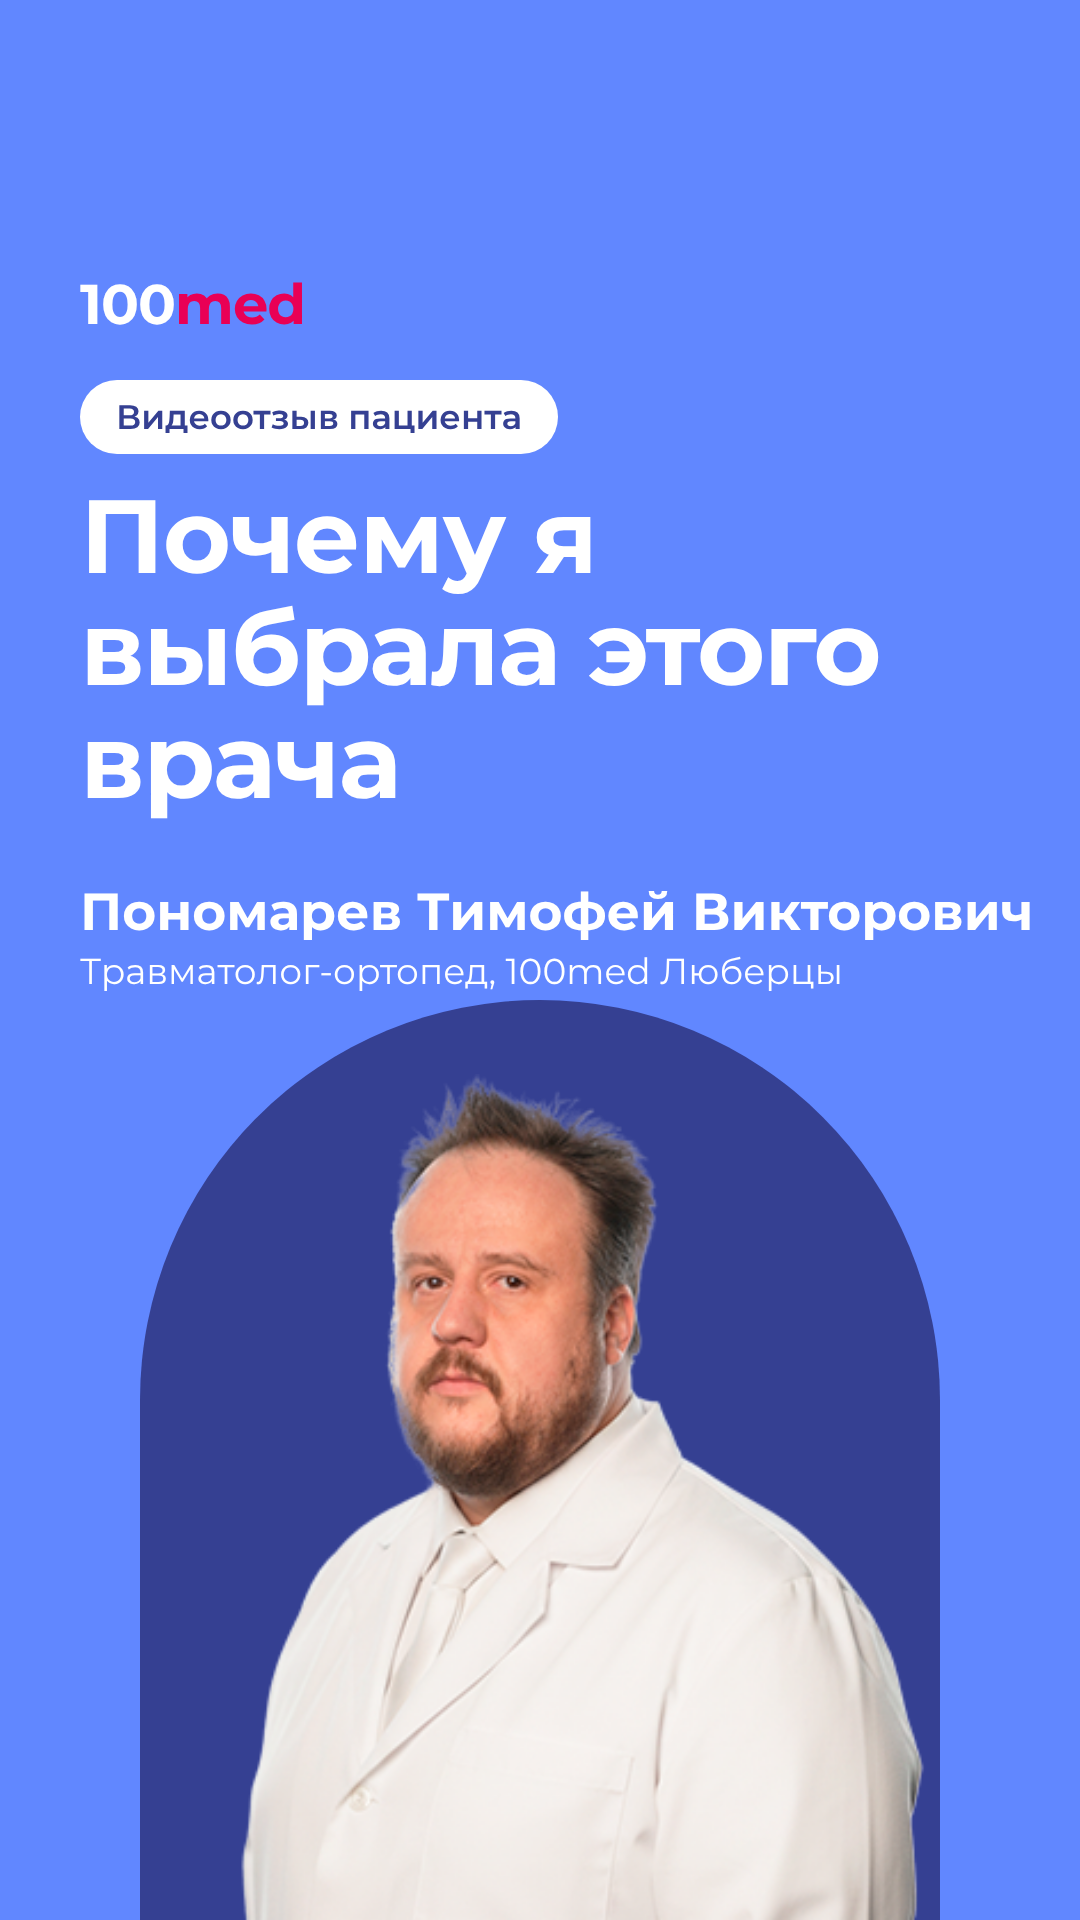
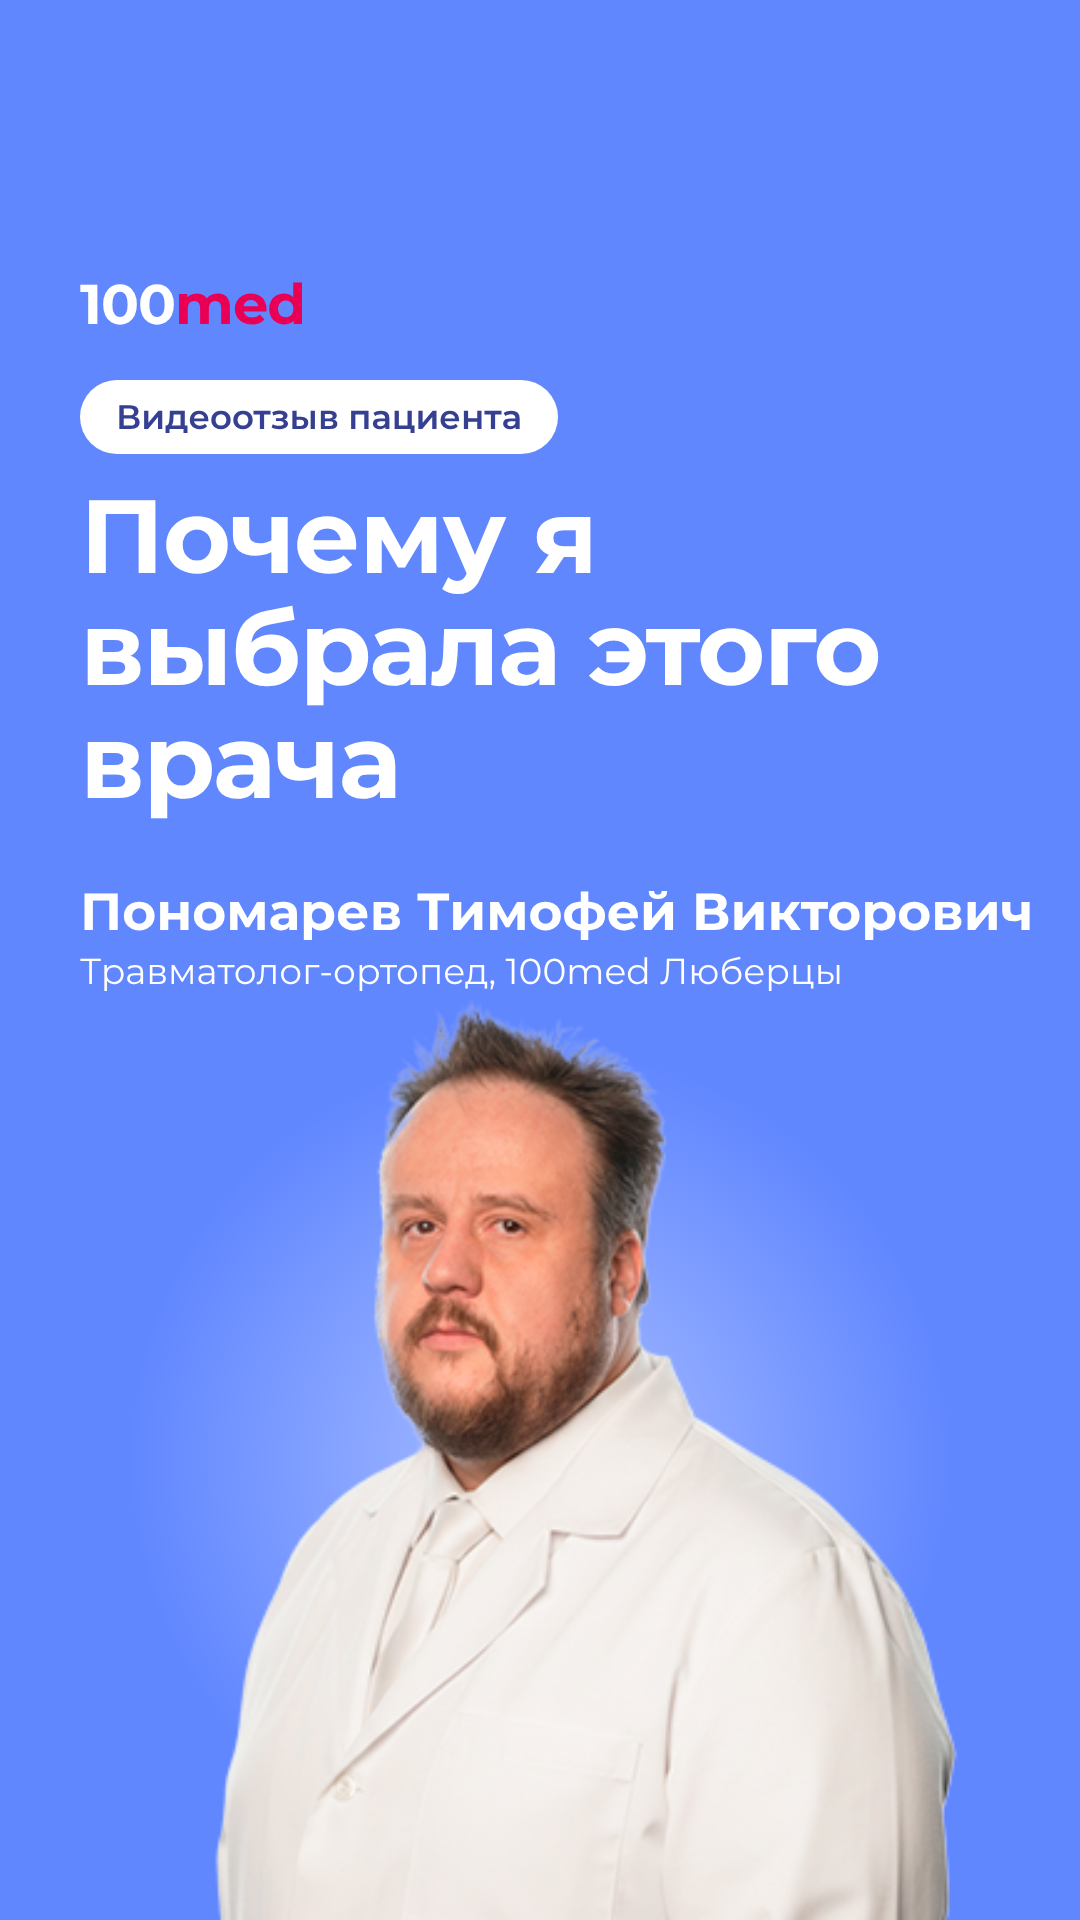
Обложки видеоотзыва: врач без арки — фото на фоне, карточка с выходом за рамку, наклонная пилюля
Claude-Session: https://claude.ai/code/session_01PviFTs3NBUHuRE8r3MhosN

diff --git a/design/rutube/covers.html b/design/rutube/covers.html
@@ -8,10 +8,7 @@ body{font-family:'Proxima Nova','Montserrat',sans-serif;background:#fff}
 .logo{position:absolute;left:64px;top:52px;font-weight:700;font-size:40px;letter-spacing:-1px}
 .logo b{color:var(--rose)}
 .pill{display:inline-block;padding:12px 28px;border-radius:999px;font-weight:600;font-size:26px}
-.photo{position:absolute;right:0;bottom:0;width:520px;height:640px;border-radius:260px 260px 0 0;
- display:flex;align-items:center;justify-content:center;text-align:center;font-weight:600;font-size:24px;line-height:1.4}
-.photo svg{position:absolute;bottom:0;left:50%;transform:translateX(-50%);opacity:.35}
-.photo img{position:absolute;bottom:0;left:50%;transform:translateX(-50%);height:92%}
+h1,.name,.pill,.logo,.play,.playtxt{z-index:3}
 h1{font-weight:700;line-height:1.08;letter-spacing:-1.5px}
 .name{position:absolute;left:64px;bottom:64px}
 .name .fio{font-weight:700;font-size:34px;white-space:nowrap}
@@ -20,20 +17,17 @@ h1{font-weight:700;line-height:1.08;letter-spacing:-1.5px}
 /* V1 Indy */
 .v1{background:var(--indy);color:#fff}
 .v1 .logo{color:#fff}
-.v1 .photo{background:var(--blue);color:var(--blue);right:40px}
 .v1 h1{position:absolute;left:64px;top:230px;width:640px;font-size:84px}
 .v1 .pill{position:absolute;left:64px;top:150px;background:#fff;color:var(--blue)}
 /* V2 light */
 .v2{background:var(--g2);color:var(--dark)}
 .v2 .logo{color:var(--dark)}
-.v2 .photo{background:var(--indy);color:#fff;right:40px}
 .v2 .pill{position:absolute;left:64px;top:150px;background:var(--rose);color:#fff}
 .v2 h1{position:absolute;left:64px;top:230px;width:640px;font-size:80px;color:var(--dark)}
 .v2 .name .spec{color:var(--blue)}
 /* V3 dark */
 .v3{background:var(--dark);color:#fff}
 .v3 .logo{color:#fff}
-.v3 .photo{background:var(--indy);color:#fff;right:40px}
 .v3 .quote{position:absolute;left:56px;top:120px;font-size:220px;font-weight:700;color:var(--indy);line-height:1}
 .v3 h1{position:absolute;left:64px;top:240px;width:660px;font-size:78px}
 .v3 .play{position:absolute;left:64px;top:450px;width:72px;height:72px;background:var(--rose)}
@@ -46,14 +40,35 @@ h1{font-weight:700;line-height:1.08;letter-spacing:-1.5px}
 .vert h1{left:80px !important;top:480px !important;width:920px !important;font-size:104px !important}
 .vert .name{left:80px;top:880px;bottom:auto}
 .vert .name .fio{font-size:52px}.vert .name .spec{font-size:36px}
-.vert .photo{right:auto !important;left:140px;width:800px;height:920px;border-radius:400px 400px 0 0;font-size:34px}
-.vert .photo svg{width:620px;height:800px}
 .vert .quote{left:70px !important;top:370px !important;font-size:240px !important}
 .vert.v3 h1{top:610px !important}
 .vert .play{left:80px !important;top:900px !important;width:88px;height:88px}
 .vert .playtxt{left:190px !important;top:922px !important;font-size:36px}
 .vert.v3 .name{top:1030px}
-.vert.v3 .photo{height:740px}
+/* ===== Photo treatments (no arch) ===== */
+.photo{position:absolute}
+.photo img{position:absolute;bottom:0;left:50%;transform:translateX(-50%);z-index:2}
+.deco{position:absolute;z-index:1}
+/* v1: freestanding cut-out with soft glow */
+.v1 .photo{right:10px;bottom:0;width:600px;height:690px}
+.v1 .photo img{height:100%}
+.v1 .deco{inset:0;background:radial-gradient(circle at 50% 50%,rgba(255,255,255,.45),rgba(255,255,255,0) 62%)}
+/* v2: card with head breaking out of the frame */
+.v2 .photo{right:56px;bottom:56px;width:500px;height:430px}
+.v2 .deco{inset:0;background:var(--indy);border-radius:40px}
+.v2 .photo img{height:600px;clip-path:inset(-60% 41px 0 41px)}
+/* v3: tilted pill behind the doctor */
+.v3 .photo{right:0;bottom:0;width:600px;height:690px}
+.v3 .photo img{height:100%}
+.v3 .deco{left:-40px;top:250px;width:680px;height:290px;border-radius:999px;background:var(--indy);transform:rotate(-14deg)}
+/* vertical */
+.vert.v1 .photo{left:60px;width:960px;height:920px}
+.vert.v1 .photo img{height:100%}
+.vert.v2 .photo{left:100px;right:auto;bottom:70px;width:880px;height:700px}
+.vert.v2 .photo img{height:850px;clip-path:none}
+.vert.v3 .photo{left:60px;width:960px;height:800px}
+.vert.v3 .photo img{height:100%}
+.vert.v3 .deco{left:-60px;top:250px;width:1080px;height:400px}
 </style></head><body>
 
 <div class="cover v1" id="v1">
@@ -61,7 +76,7 @@ h1{font-weight:700;line-height:1.08;letter-spacing:-1.5px}
  <div class="pill">Видеоотзыв пациента</div>
  <h1>Почему я выбрала этого врача</h1>
  <div class="name"><div class="fio">Пономарев Тимофей Викторович</div><div class="spec">Травматолог-ортопед, 100med Люберцы</div></div>
- <div class="photo"><img src="ponomarev.png" alt="Пономарев Тимофей Викторович"></div>
+ <div class="photo"><div class="deco"></div><img src="ponomarev.png" alt="Пономарев Тимофей Викторович"></div>
 </div>
 
 <div class="cover v2" id="v2">
@@ -69,7 +84,7 @@ h1{font-weight:700;line-height:1.08;letter-spacing:-1.5px}
  <div class="pill">Отзыв пациента</div>
  <h1>Как прошёл мой приём</h1>
  <div class="name"><div class="fio">Пономарев Тимофей Викторович</div><div class="spec">Травматолог-ортопед, 100med Люберцы</div></div>
- <div class="photo"><img src="ponomarev.png" alt="Пономарев Тимофей Викторович"></div>
+ <div class="photo"><div class="deco"></div><img src="ponomarev.png" alt="Пономарев Тимофей Викторович"></div>
 </div>
 
 <div class="cover v3" id="v3">
@@ -79,7 +94,7 @@ h1{font-weight:700;line-height:1.08;letter-spacing:-1.5px}
  <div class="play"><svg width="30" height="34" viewBox="0 0 30 34"><path d="M2 2l26 15L2 32z" fill="#fff"/></svg></div>
  <div class="playtxt">Видеоотзыв пациента</div>
  <div class="name"><div class="fio">Пономарев Тимофей Викторович</div><div class="spec" style="color:#d8dfe8">Травматолог-ортопед, 100med Люберцы</div></div>
- <div class="photo"><img src="ponomarev.png" alt="Пономарев Тимофей Викторович"></div>
+ <div class="photo"><div class="deco"></div><img src="ponomarev.png" alt="Пономарев Тимофей Викторович"></div>
 </div>
 
 
@@ -88,7 +103,7 @@ h1{font-weight:700;line-height:1.08;letter-spacing:-1.5px}
  <div class="pill">Видеоотзыв пациента</div>
  <h1>Почему я выбрала этого врача</h1>
  <div class="name"><div class="fio">Пономарев Тимофей Викторович</div><div class="spec">Травматолог-ортопед, 100med Люберцы</div></div>
- <div class="photo"><img src="ponomarev.png" alt="Пономарев Тимофей Викторович"></div>
+ <div class="photo"><div class="deco"></div><img src="ponomarev.png" alt="Пономарев Тимофей Викторович"></div>
 </div>
 
 <div class="cover vert v2" id="s2">
@@ -96,7 +111,7 @@ h1{font-weight:700;line-height:1.08;letter-spacing:-1.5px}
  <div class="pill">Отзыв пациента</div>
  <h1>Как прошёл мой приём</h1>
  <div class="name"><div class="fio">Пономарев Тимофей Викторович</div><div class="spec">Травматолог-ортопед, 100med Люберцы</div></div>
- <div class="photo"><img src="ponomarev.png" alt="Пономарев Тимофей Викторович"></div>
+ <div class="photo"><div class="deco"></div><img src="ponomarev.png" alt="Пономарев Тимофей Викторович"></div>
 </div>
 
 <div class="cover vert v3" id="s3">
@@ -106,6 +121,6 @@ h1{font-weight:700;line-height:1.08;letter-spacing:-1.5px}
  <div class="play"><svg width="30" height="34" viewBox="0 0 30 34"><path d="M2 2l26 15L2 32z" fill="#fff"/></svg></div>
  <div class="playtxt">Видеоотзыв пациента</div>
  <div class="name"><div class="fio">Пономарев Тимофей Викторович</div><div class="spec" style="color:#d8dfe8">Травматолог-ортопед, 100med Люберцы</div></div>
- <div class="photo"><img src="ponomarev.png" alt="Пономарев Тимофей Викторович"></div>
+ <div class="photo"><div class="deco"></div><img src="ponomarev.png" alt="Пономарев Тимофей Викторович"></div>
 </div>
 </body></html>
